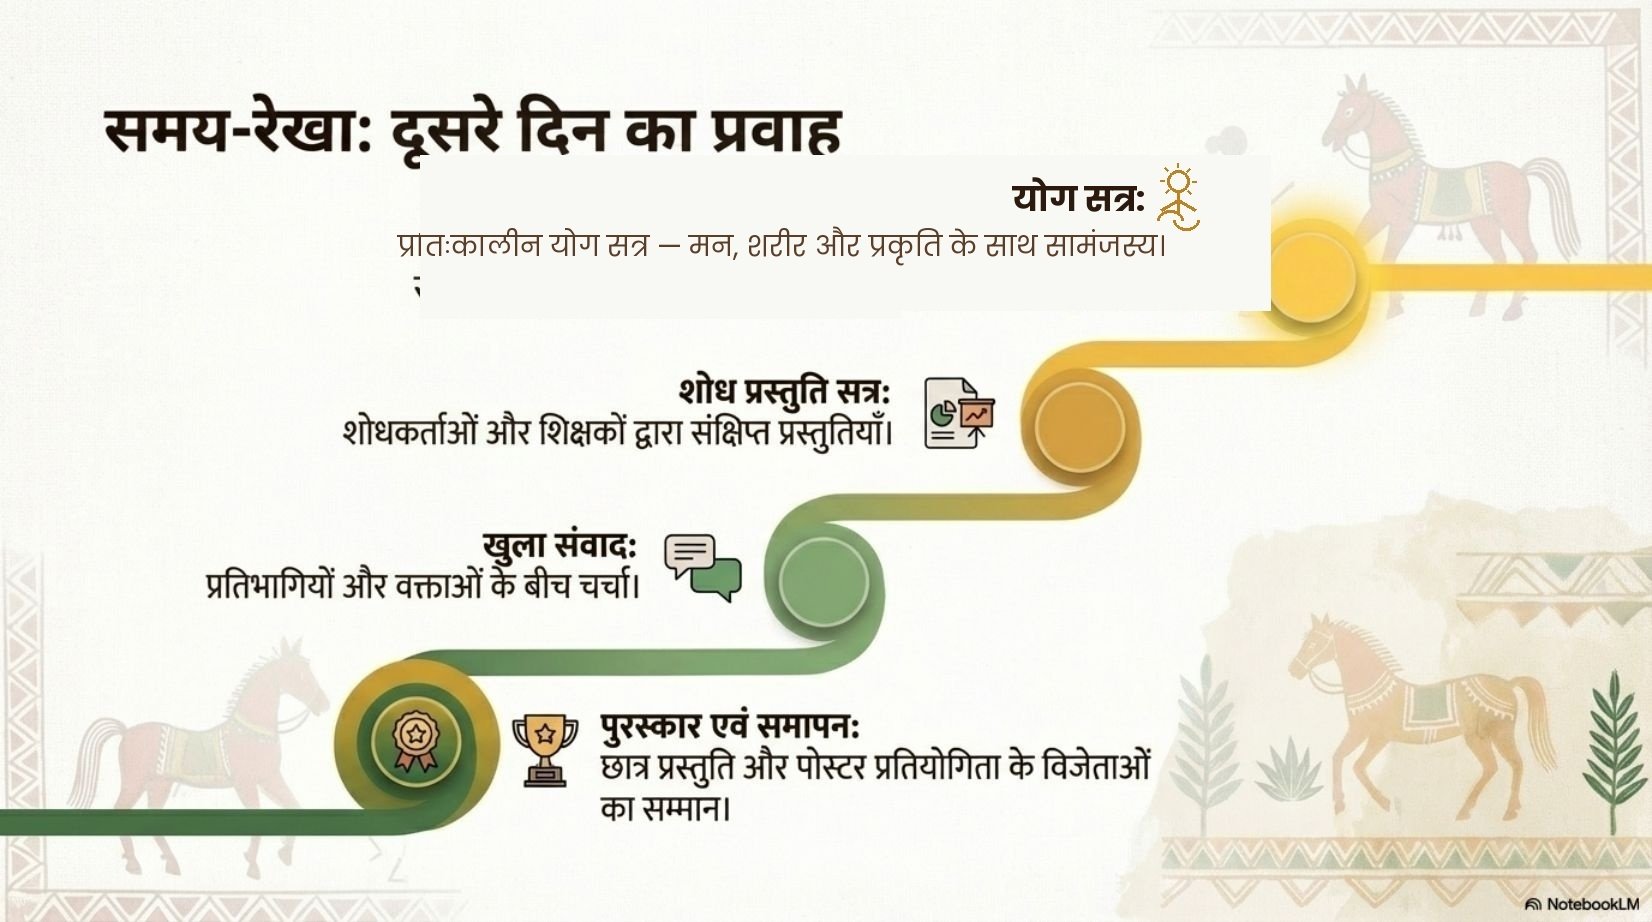
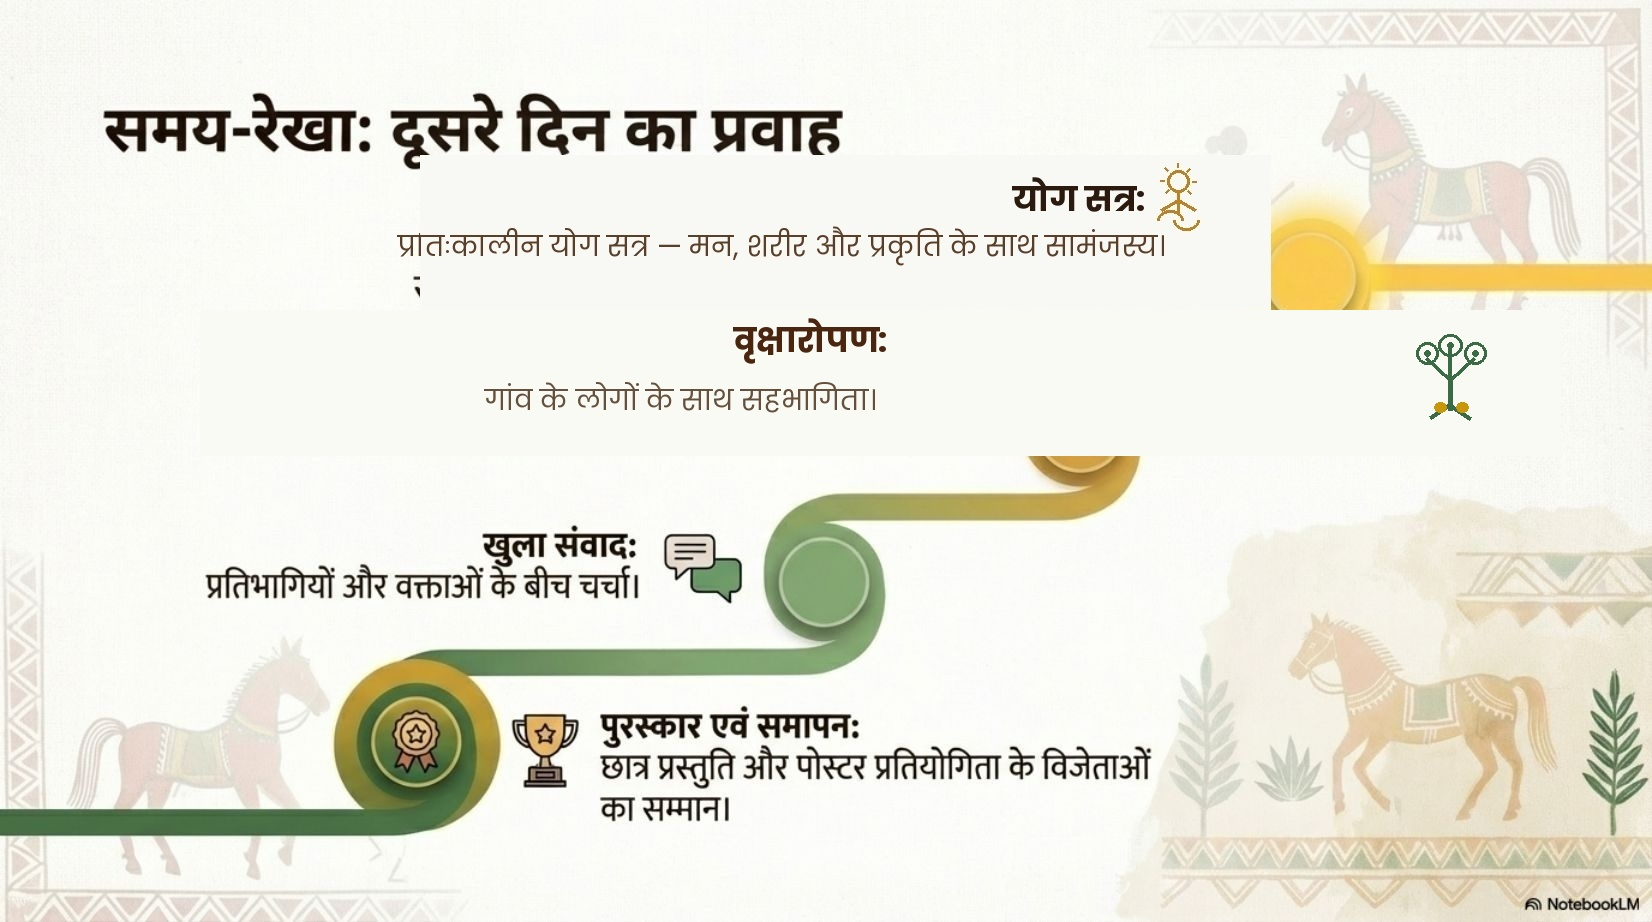
Update jhabua-samvad, js_page_07 image and add presentation PDF

Changed region(s): [[0.1852, 0.3341, 0.8644, 0.5163], [0.8644, 0.3644, 0.8953, 0.4555], [0.8953, 0.3341, 0.9262, 0.3644]]

diff --git a/jhabua-samvad.html b/jhabua-samvad.html
@@ -774,10 +774,10 @@
           <a href="tradition-bharadi.html">भराड़ी</a>
         </div>
       </li>
-      
       <li><a href="about.html" class="nav-item">About Us<span class="hin">परिचय</span></a></li>
       <li><a href="index.html#contact" class="nav-item">Contact<span class="hin">संपर्क</span></a></li>
-      <li><a href="jhabua-samvad.html" class="nav-item">Jhabua Samvad<span class="hin">झाबुआ संवाद</span></a></li>
+      <li><a href="jhabua-anchal.html" class="nav-item">Jhabua Anchal<span class="hin">झाबुआ अंचल</span></a></li>
+      <li><a href="jhabua-samvad.html" class="nav-item active">Jhabua Samvad<span class="hin">झाबुआ संवाद</span></a></li>
       <li><a href="donate.html" class="nav-cta">Donate Now</a></li>
     </ul>
   </nav>
@@ -799,6 +799,7 @@
         <p class="hero-desc">A two-day collaborative platform — संस्कृति, उद्यम, शोध और युवा सहभागिता का संगम। An assembly where tradition meets modern opportunity for youth, researchers, artists and local enterprise of the Jhabua region.</p>
         <div class="hero-ctas">
           <a href="#schedule" class="btn btn-amber">View Schedule</a>
+          <a href="#participate" class="btn btn-ghost-w">Participate</a>
           <a href="https://docs.google.com/forms/d/e/1FAIpQLSfFJVX0taA3g3oOoghozBLB-edqiZZhZYDx6mNwcb4LndIXVg/viewform?usp=header" target="_blank" rel="noopener" class="btn btn-ghost-w">Register →</a>
         </div>
       </div>
@@ -1114,10 +1115,34 @@
         </div>
       </div>
       <div class="timeline-item">
-        <div class="timeline-icon"><svg viewBox="0 0 36 36" xmlns="http://www.w3.org/2000/svg"><rect x="4" y="4" width="28" height="22" rx="3" fill="none" stroke="#C8960A" stroke-width="2"/><line x1="4" y1="12" x2="32" y2="12" stroke="#C8960A" stroke-width="1.6"/><line x1="12" y1="4" x2="12" y2="26" stroke="#C8960A" stroke-width="1.6"/><circle cx="8" cy="8" r="1.8" fill="#C8960A"/><circle cx="8" cy="18" r="1.8" fill="#C8960A"/><circle cx="8" cy="22" r="1.8" fill="#C8960A"/><line x1="14" y1="18" x2="30" y2="18" stroke="#C8960A" stroke-width="1.4" stroke-linecap="round"/><line x1="14" y1="22" x2="26" y2="22" stroke="#C8960A" stroke-width="1.4" stroke-linecap="round"/><line x1="12" y1="30" x2="24" y2="30" stroke="#C8960A" stroke-width="2" stroke-linecap="round"/></svg></div>
+        <div class="timeline-icon"><svg viewBox="0 0 36 36" xmlns="http://www.w3.org/2000/svg">
+  <!-- Pithora tree with roots and hands planting -->
+  <!-- Trunk -->
+  <line x1="18" y1="32" x2="18" y2="18" stroke="#3A6B45" stroke-width="2.5" stroke-linecap="round"/>
+  <!-- Roots spread -->
+  <line x1="18" y1="30" x2="10" y2="34" stroke="#3A6B45" stroke-width="1.8" stroke-linecap="round"/>
+  <line x1="18" y1="30" x2="26" y2="34" stroke="#3A6B45" stroke-width="1.8" stroke-linecap="round"/>
+  <line x1="18" y1="32" x2="14" y2="36" stroke="#3A6B45" stroke-width="1.4" stroke-linecap="round"/>
+  <line x1="18" y1="32" x2="22" y2="36" stroke="#3A6B45" stroke-width="1.4" stroke-linecap="round"/>
+  <!-- Branches -->
+  <line x1="18" y1="20" x2="10" y2="13" stroke="#3A6B45" stroke-width="2" stroke-linecap="round"/>
+  <line x1="18" y1="20" x2="26" y2="13" stroke="#3A6B45" stroke-width="2" stroke-linecap="round"/>
+  <line x1="18" y1="18" x2="18" y2="9" stroke="#3A6B45" stroke-width="2" stroke-linecap="round"/>
+  <!-- Leaves (circles) -->
+  <circle cx="9" cy="11" r="4" fill="none" stroke="#3A6B45" stroke-width="1.8"/>
+  <circle cx="27" cy="11" r="4" fill="none" stroke="#3A6B45" stroke-width="1.8"/>
+  <circle cx="18" cy="7" r="4.5" fill="none" stroke="#3A6B45" stroke-width="1.8"/>
+  <!-- Small leaf dots inside circles (Pithora style) -->
+  <circle cx="9" cy="11" r="1.5" fill="#3A6B45"/>
+  <circle cx="27" cy="11" r="1.5" fill="#3A6B45"/>
+  <circle cx="18" cy="7" r="1.5" fill="#3A6B45"/>
+  <!-- Two hands planting (stylised) -->
+  <path d="M6 26 Q8 22 10 24 Q8 26 6 26Z" fill="#C8960A"/>
+  <path d="M30 26 Q28 22 26 24 Q28 26 30 26Z" fill="#C8960A"/>
+</svg></div>
         <div class="timeline-content">
-          <h5>शोध प्रस्तुति सत्र / Research Session</h5>
-          <p class="hindi">शोधकर्ताओं और शिक्षकों द्वारा संक्षिप्त प्रस्तुतियाँ।</p>
+          <h5>वृक्षारोपण</h5>
+          <p class="hindi">गांव के लोगों के साथ सहभागिता।</p>
         </div>
       </div>
       <div class="timeline-item">
@@ -1140,8 +1165,8 @@
 
 <div class="tribal-divider on-cream"></div>
 
-<!-- ============ MUKHYA ATITHI ============ -->
-<section class="std" style="background:var(--creamDk);" id="guests">
+<!-- ============ MUKHYA ATITHI - REMOVED ============ -->
+<section class="std" style="background:var(--creamDk);display:none;" id="guests">
   <div class="container">
     <div class="section-head center">
       <div class="section-eyebrow">मुख्य अतिथि · Distinguished Guests</div>
@@ -1418,51 +1443,21 @@
   </div>
 </section>
 
-<!-- ============ DESIGN GUIDE SHOWCASE ============ -->
+<!-- ============ PRESENTATION DOWNLOAD ============ -->
 <div class="tribal-divider on-cream"></div>
-<section class="std" style="background:var(--cream);">
-  <div class="container">
-    <div class="section-head">
-      <span class="section-eyebrow">प्रस्तुति दस्तावेज़</span>
-      <h2 class="section-title">झाबुआ संवाद — विस्तृत रूपरेखा</h2>
-      <p class="section-sub">Jhabua Samvad Design &amp; Vision Document — a collaborative platform for culture, enterprise, research and youth.</p>
-    </div>
-    <div style="display:grid; grid-template-columns:repeat(auto-fill,minmax(280px,1fr)); gap:16px;">
-      <a href="images/js_page_01.jpg" target="_blank" style="display:block; border-radius:10px; overflow:hidden; box-shadow:0 4px 18px rgba(74,37,16,0.14); transition:transform 0.25s;" onmouseover="this.style.transform='translateY(-5px)'" onmouseout="this.style.transform=''">
- <img src="images/js_page_01.jpg" alt="Jhabua Samvad — Overview" style="width:100%;display:block;" loading="lazy">
-</a>
-      <a href="images/js_page_02.jpg" target="_blank" style="display:block; border-radius:10px; overflow:hidden; box-shadow:0 4px 18px rgba(74,37,16,0.14); transition:transform 0.25s;" onmouseover="this.style.transform='translateY(-5px)'" onmouseout="this.style.transform=''">
- <img src="images/js_page_02.jpg" alt="Heritage and Modern Gap" style="width:100%;display:block;" loading="lazy">
-</a>
-      <a href="images/js_page_03.jpg" target="_blank" style="display:block; border-radius:10px; overflow:hidden; box-shadow:0 4px 18px rgba(74,37,16,0.14); transition:transform 0.25s;" onmouseover="this.style.transform='translateY(-5px)'" onmouseout="this.style.transform=''">
- <img src="images/js_page_03.jpg" alt="Collaborative Platform Vision" style="width:100%;display:block;" loading="lazy">
-</a>
-      <a href="images/js_page_04.jpg" target="_blank" style="display:block; border-radius:10px; overflow:hidden; box-shadow:0 4px 18px rgba(74,37,16,0.14); transition:transform 0.25s;" onmouseover="this.style.transform='translateY(-5px)'" onmouseout="this.style.transform=''">
- <img src="images/js_page_04.jpg" alt="Central Theme: Tradition and Enterprise" style="width:100%;display:block;" loading="lazy">
-</a>
-      <a href="images/js_page_05.jpg" target="_blank" style="display:block; border-radius:10px; overflow:hidden; box-shadow:0 4px 18px rgba(74,37,16,0.14); transition:transform 0.25s;" onmouseover="this.style.transform='translateY(-5px)'" onmouseout="this.style.transform=''">
- <img src="images/js_page_05.jpg" alt="Five Key Objectives" style="width:100%;display:block;" loading="lazy">
-</a>
-      <a href="images/js_page_06.jpg" target="_blank" style="display:block; border-radius:10px; overflow:hidden; box-shadow:0 4px 18px rgba(74,37,16,0.14); transition:transform 0.25s;" onmouseover="this.style.transform='translateY(-5px)'" onmouseout="this.style.transform=''">
- <img src="images/js_page_06.jpg" alt="Day 1 Schedule" style="width:100%;display:block;" loading="lazy">
-</a>
-      <a href="images/js_page_07.jpg" target="_blank" style="display:block; border-radius:10px; overflow:hidden; box-shadow:0 4px 18px rgba(74,37,16,0.14); transition:transform 0.25s;" onmouseover="this.style.transform='translateY(-5px)'" onmouseout="this.style.transform=''">
- <img src="images/js_page_07.jpg" alt="Day 2 Schedule" style="width:100%;display:block;" loading="lazy">
-</a>
-      <a href="images/js_page_08.jpg" target="_blank" style="display:block; border-radius:10px; overflow:hidden; box-shadow:0 4px 18px rgba(74,37,16,0.14); transition:transform 0.25s;" onmouseover="this.style.transform='translateY(-5px)'" onmouseout="this.style.transform=''">
- <img src="images/js_page_08.jpg" alt="Who Participates" style="width:100%;display:block;" loading="lazy">
-</a>
-      <a href="images/js_page_09.jpg" target="_blank" style="display:block; border-radius:10px; overflow:hidden; box-shadow:0 4px 18px rgba(74,37,16,0.14); transition:transform 0.25s;" onmouseover="this.style.transform='translateY(-5px)'" onmouseout="this.style.transform=''">
- <img src="images/js_page_09.jpg" alt="Partnership Opportunities" style="width:100%;display:block;" loading="lazy">
-</a>
-      <a href="images/js_page_12.jpg" target="_blank" style="display:block; border-radius:10px; overflow:hidden; box-shadow:0 4px 18px rgba(74,37,16,0.14); transition:transform 0.25s;" onmouseover="this.style.transform='translateY(-5px)'" onmouseout="this.style.transform=''">
- <img src="images/js_page_12.jpg" alt="Long-term Vision" style="width:100%;display:block;" loading="lazy">
-</a>
-      <a href="images/js_page_13.jpg" target="_blank" style="display:block; border-radius:10px; overflow:hidden; box-shadow:0 4px 18px rgba(74,37,16,0.14); transition:transform 0.25s;" onmouseover="this.style.transform='translateY(-5px)'" onmouseout="this.style.transform=''">
- <img src="images/js_page_13.jpg" alt="Closing Message" style="width:100%;display:block;" loading="lazy">
-</a>
-    </div>
-    <p style="text-align:center; margin-top:24px; font-size:0.84rem; color:var(--textMuted);">Click any slide to view full size · <span class="hindi" style="font-size:0.9rem;">किसी भी स्लाइड पर क्लिक करें</span></p>
+<section class="std" style="background:var(--cream); padding:48px 24px;">
+  <div class="container" style="text-align:center;">
+    <span class="section-eyebrow">प्रस्तुति दस्तावेज़</span>
+    <h2 class="section-title" style="margin-bottom:10px;">झाबुआ संवाद — विस्तृत रूपरेखा</h2>
+    <p class="section-sub" style="margin-bottom:32px;">Jhabua Samvad Design &amp; Vision Document — a collaborative platform for culture, enterprise, research and youth.</p>
+    <a href="Jhabua_Samvad_Presentation.pdf" download="Jhabua_Samvad_Presentation.pdf"
+       style="display:inline-flex; align-items:center; gap:10px; background:var(--terra); color:var(--cream); font-family:'Hind',sans-serif; font-size:1.05rem; font-weight:600; padding:14px 32px; border-radius:6px; text-decoration:none; box-shadow:0 4px 16px rgba(184,92,56,0.30); transition:background 0.2s, transform 0.2s;"
+       onmouseover="this.style.background='var(--bark)';this.style.transform='translateY(-2px)'"
+       onmouseout="this.style.background='var(--terra)';this.style.transform=''">
+      <svg width="20" height="20" viewBox="0 0 24 24" fill="none" stroke="currentColor" stroke-width="2.2" stroke-linecap="round" stroke-linejoin="round"><path d="M21 15v4a2 2 0 0 1-2 2H5a2 2 0 0 1-2-2v-4"/><polyline points="7 10 12 15 17 10"/><line x1="12" y1="15" x2="12" y2="3"/></svg>
+      Download Presentation
+    </a>
+    <p style="margin-top:14px; font-size:0.82rem; color:var(--textMuted);">PDF · 13 slides · 2.3 MB</p>
   </div>
 </section>
 <div class="tribal-divider alt on-cream"></div>
@@ -1540,7 +1535,7 @@
   </div>
   <div class="footer-bottom">
     <div>© 2026 Bharat Ghumakkad Samaj Darshan Foundation · झाबुआ, मध्य प्रदेश</div>
-    <div>Founder: Rajendra Dindod</div>
+    <div>Designed by: Jaya Jain</div>
   </div>
 </footer>
 